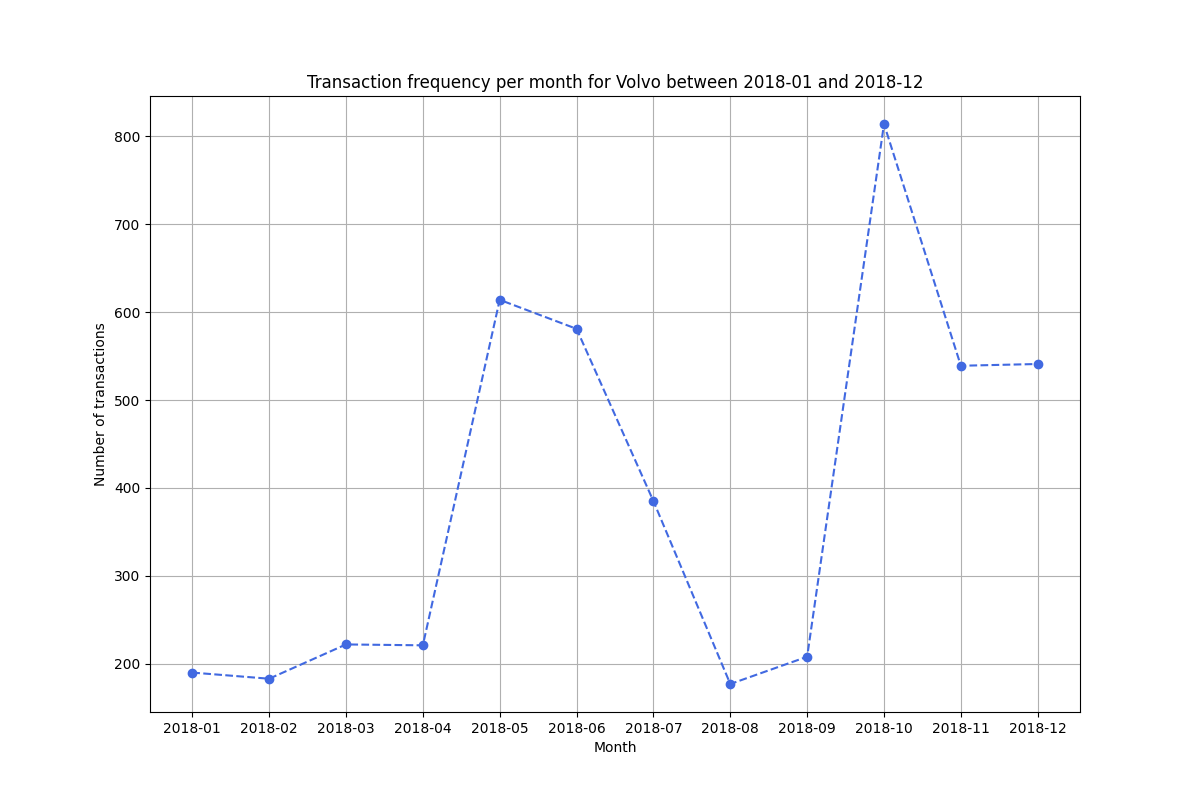
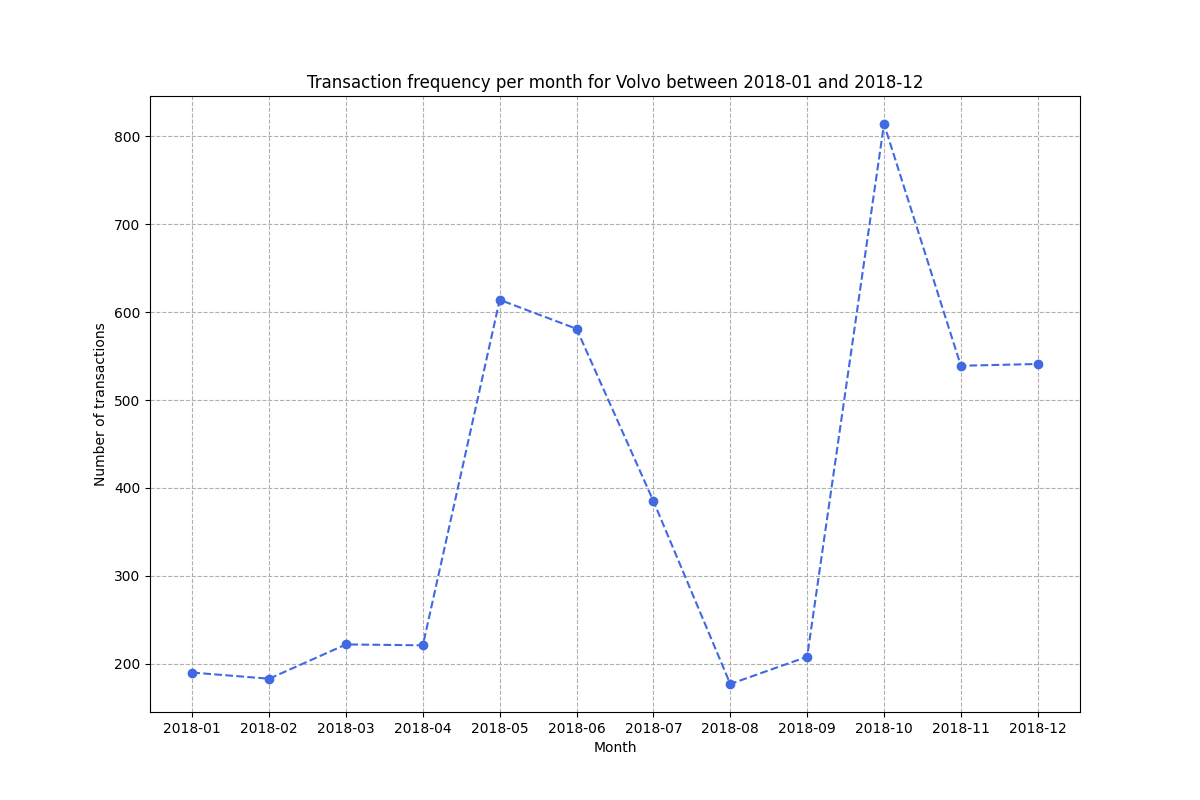
Changed grid linestyle

diff --git a/transactions_year_product.py b/transactions_year_product.py
@@ -12,7 +12,7 @@ tr = product_monthly[(product_monthly['year_month'].dt.year == year) & (product_
 
 plt.figure(figsize=(12,8))
 plt.plot(range(len(tr)), tr['transactions'].values, marker='o', color='royalblue', linestyle='dashed')
-plt.grid('--')
+plt.grid(linestyle='--')
 ticks = tr.year_month.dt.to_period('M')
 plt.xticks(ticks=range(len(tr)), labels=ticks)
 plt.xlabel('Month')

diff --git a/transactions_customer_hist.py b/transactions_customer_hist.py
@@ -13,5 +13,5 @@ plt.ylabel("Number of Transactions")
 plt.title("Transactions per Customer (Descending Order)")
 plt.xticks([])
 plt.yscale('log')
-plt.grid('--')
+plt.grid(linestyle='--')
 plt.savefig("results/transactions_customer_hist.png")
